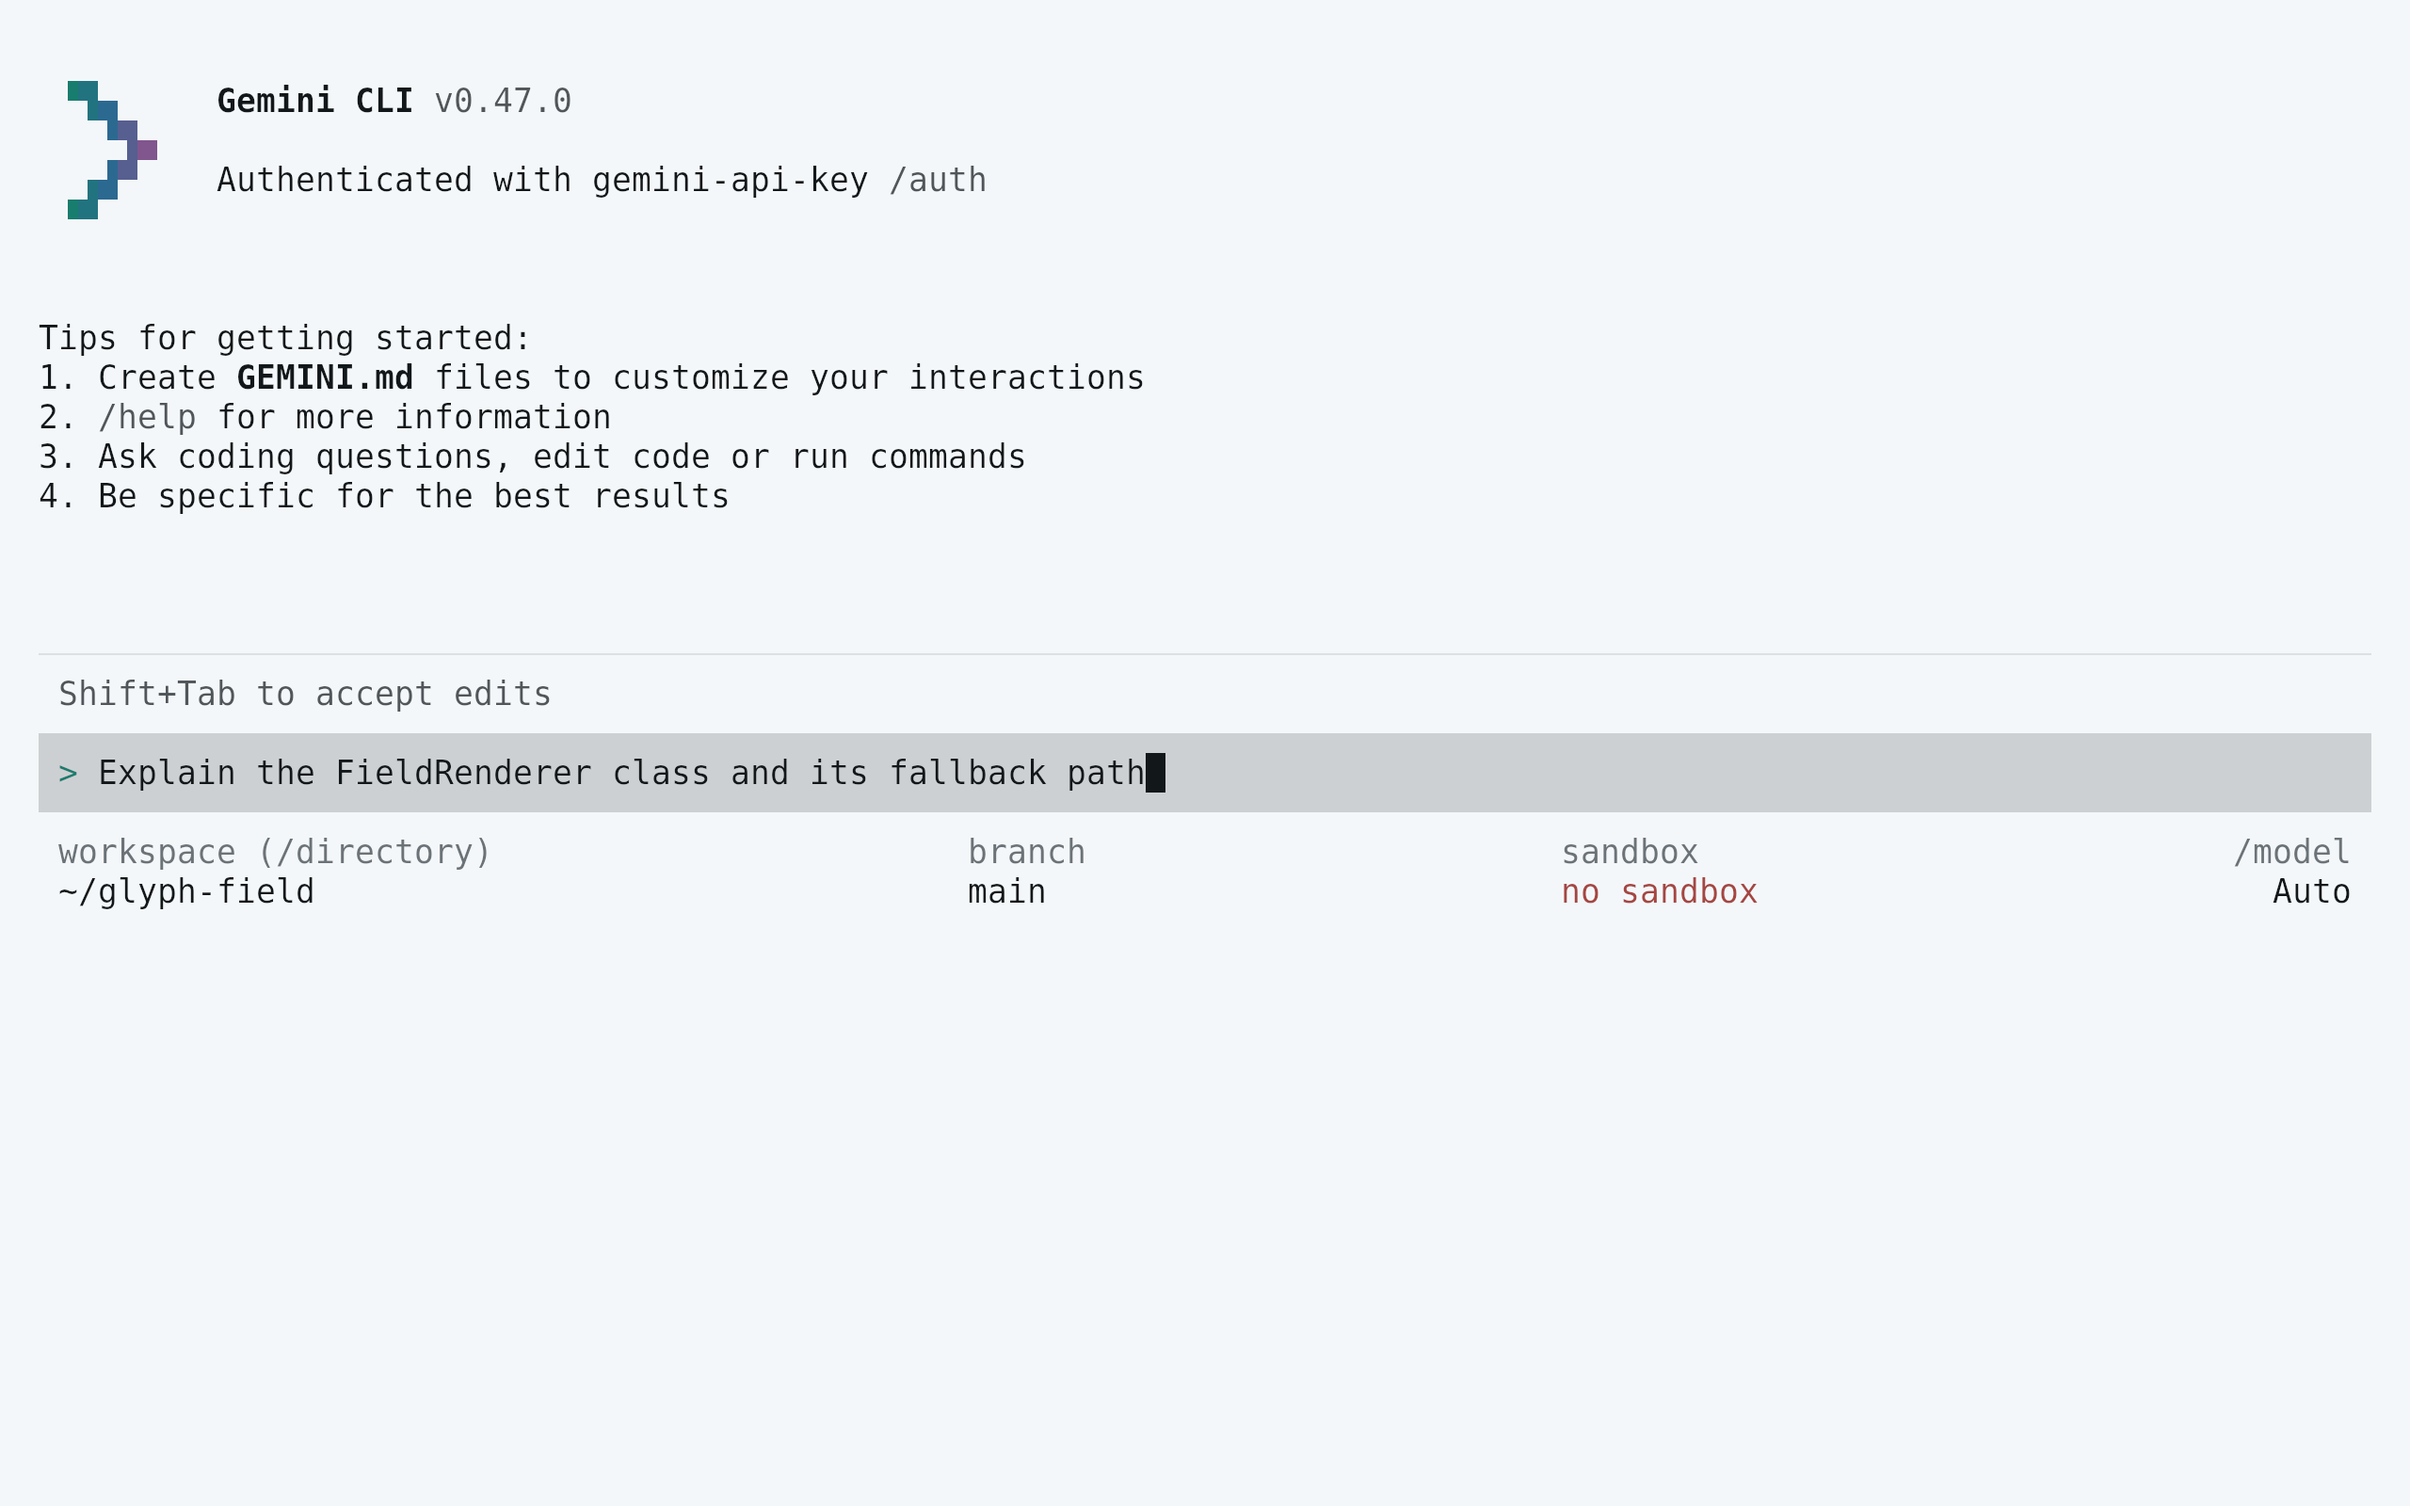
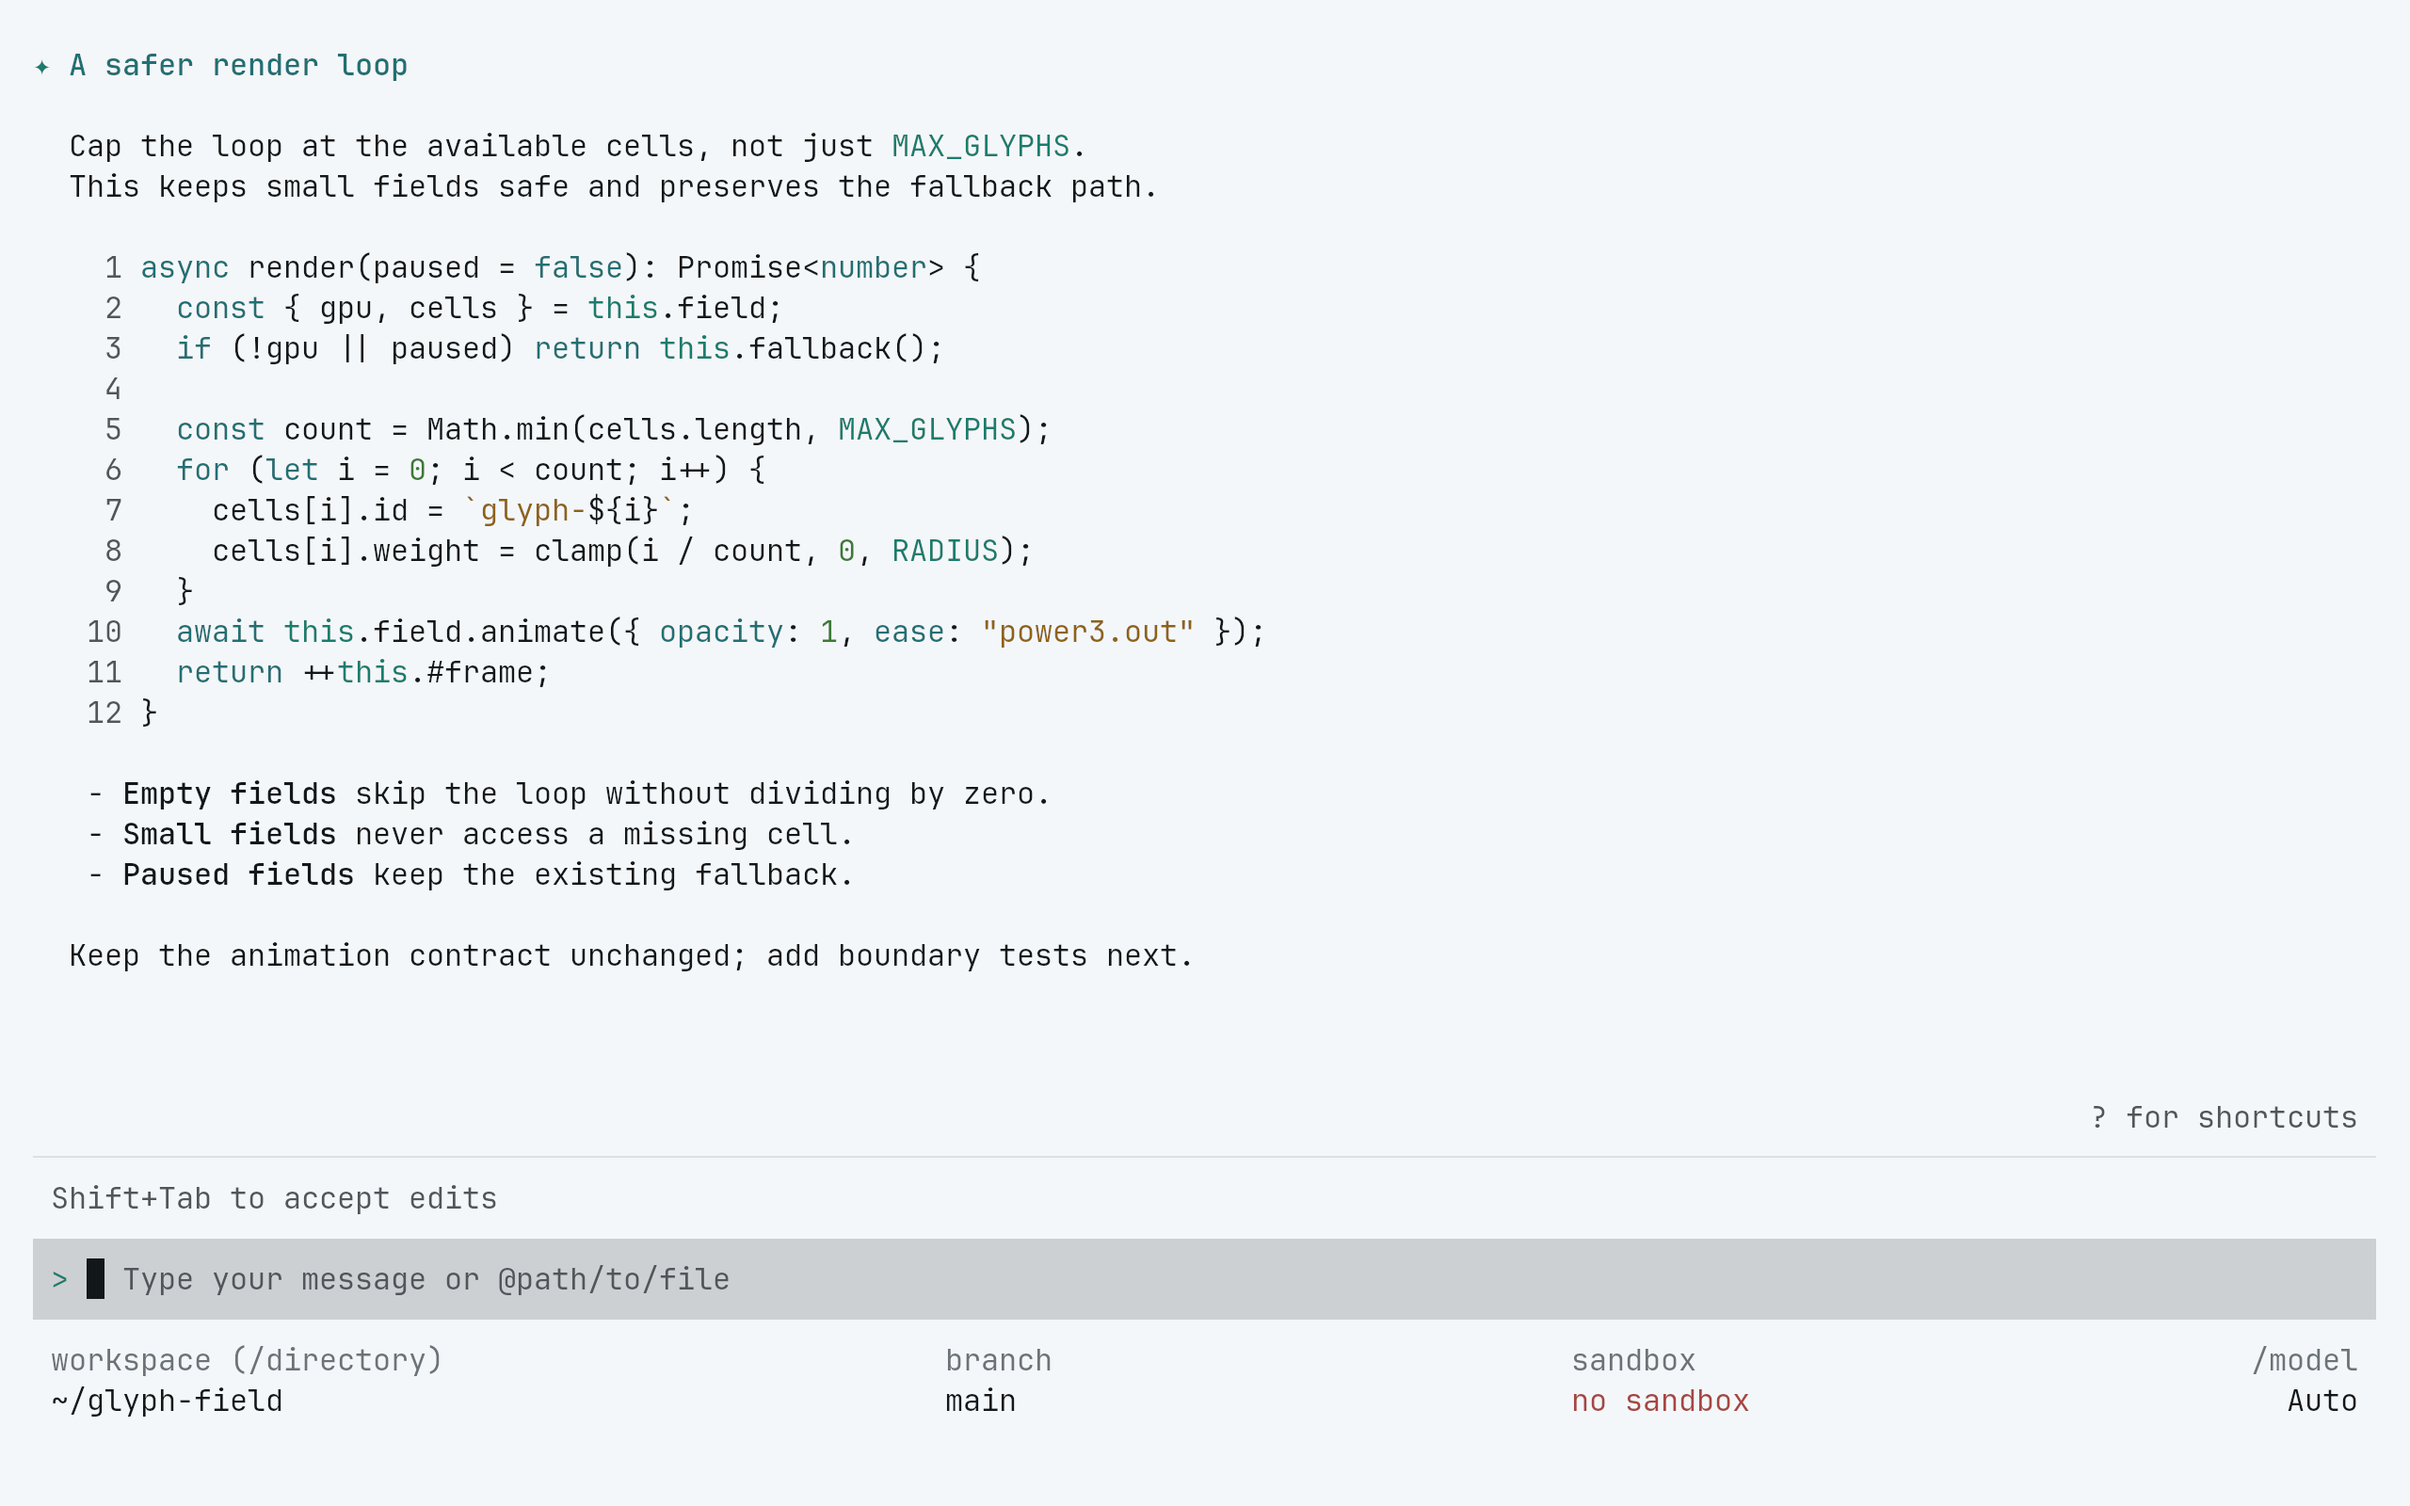
feat: refresh native review previews and verify syntax roles

diff --git a/capture/app.py b/capture/app.py
@@ -1,4 +1,4 @@
-"""Capture Gemini's native themed TUI. All credentials and endpoints are disposable."""
+"""Resume a labeled local demo in Gemini's native Markdown/code renderer."""
 import json
 
 
@@ -10,11 +10,18 @@ def prepare(c):
         'general': {'disableAutoUpdate': True, 'enableAutoUpdate': False}, 'privacy': {'usageStatisticsEnabled': False}}))
     c.env.update(GEMINI_API_KEY='capture-not-a-real-key', GOOGLE_GEMINI_BASE_URL='http://127.0.0.1:9',
                  GEMINI_CLI_DISABLE_TELEMETRY='1', NO_UPDATE_NOTIFIER='1')
-    return ['gemini']
+    timestamp = '2026-01-01T12:00:00.000Z'
+    records = [
+        {'sessionId': 'a40d1e4c-1150-4000-8000-000000000020', 'projectHash': 'local-demo',
+         'startTime': timestamp, 'lastUpdated': timestamp},
+        {'id': 'demo-user', 'type': 'user', 'timestamp': timestamp,
+         'content': [{'text': 'Review the glyph render loop and suggest a safer implementation. (Local demo)'}]},
+        {'id': 'demo-assistant', 'type': 'gemini', 'timestamp': timestamp,
+         'content': [{'text': (c.root / 'capture/review.md').read_text()}], 'model': 'gemini-2.5-pro'},
+    ]
+    session = c.write('demo-session.jsonl', '\n'.join(json.dumps(x) for x in records) + '\n')
+    return ['gemini', '--session-file', session, '--skip-trust']
 
 
 def drive(c):
-    c.wait_text(r'Gemini|Type your|trust')
-    if 'trust' in c.text().lower():
-        c.key('enter')
-    c.type('Explain the FieldRenderer class and its fallback path')  # Intentionally not submitted.
+    c.wait_text(r'add boundary tests next')

diff --git a/scripts/capture.py b/scripts/capture.py
@@ -185,7 +185,7 @@ export class FieldRenderer {
         role = lambda name: colors[self.flavor['roles'][name]]['hex']
         options = {'linux_display_server': 'x11', 'hide_window_decorations': 'yes', 'remember_window_size': 'no',
                    'initial_window_width': str(WIDTH), 'initial_window_height': str(HEIGHT),
-                   'font_family': 'DejaVu Sans Mono', 'font_size': '26', 'window_padding_width': '24',
+                   'font_family': 'JetBrains Mono', 'font_size': '24', 'window_padding_width': '24',
                    'cursor_blink_interval': '0', 'enable_audio_bell': 'no', 'allow_remote_control': 'yes',
                    'background': role('bg'), 'foreground': role('fg'), 'cursor': role('cursor'),
                    'selection_background': role('selection'), 'selection_foreground': role('fg')}

diff --git a/README.md b/README.md
@@ -113,7 +113,9 @@ The distributable files are standalone `type: "custom"` theme documents, not ful
 
 Uses the documented standalone-file custom theme API. Gemini CLI permits theme paths only within the home directory: do not point it at a clone under `/tmp` or a system-wide location. Text, background, diff, border, status and UI groups are provided; code highlighting follows Gemini CLI’s derived theme behavior. Tests validate the nested format, not provider access or model output.
 
-Previews are captured programmatically from the actual application in an isolated profile. See [`capture/app.py`](capture/app.py) for the app-owned recipe and [`images/capture.json`](images/capture.json) for runtime, palette and image provenance. No mock interface is drawn.
+**Syntax limitation (Gemini CLI 0.47.0):** custom themes derive highlight.js colors from shared UI accents. Keywords/literals share an accent, numbers/classes share another, and function titles/parameters use the main foreground; independent syntax-role overrides are not supported. These couplings cannot reproduce Neovim’s separate keyword, constant, number, type, function and parameter roles. Exact parity needs an upstream syntax-theme API; screenshots retain Gemini CLI’s genuine native rendering.
+
+Previews are captured programmatically from the actual application in an isolated profile. See [`capture/app.py`](capture/app.py) for the app-owned recipe and [`images/capture.json`](images/capture.json) for runtime, palette and image provenance. No mock interface is drawn. The conversation is a labeled, repository-owned local demo, not a private session or a live model response. Recapturing needs no account, subscription or paid API call.
 
 ## Contributing
 

diff --git a/capture/review.md b/capture/review.md
@@ -1,0 +1,25 @@
+## A safer render loop
+
+Cap the loop at the available cells, not just `MAX_GLYPHS`.
+This keeps small fields safe and preserves the fallback path.
+
+```typescript
+async render(paused = false): Promise<number> {
+  const { gpu, cells } = this.field;
+  if (!gpu || paused) return this.fallback();
+
+  const count = Math.min(cells.length, MAX_GLYPHS);
+  for (let i = 0; i < count; i++) {
+    cells[i].id = `glyph-${i}`;
+    cells[i].weight = clamp(i / count, 0, RADIUS);
+  }
+  await this.field.animate({ opacity: 1, ease: "power3.out" });
+  return ++this.#frame;
+}
+```
+
+- **Empty fields** skip the loop without dividing by zero.
+- **Small fields** never access a missing cell.
+- **Paused fields** keep the existing fallback.
+
+Keep the animation contract unchanged; add boundary tests next.
